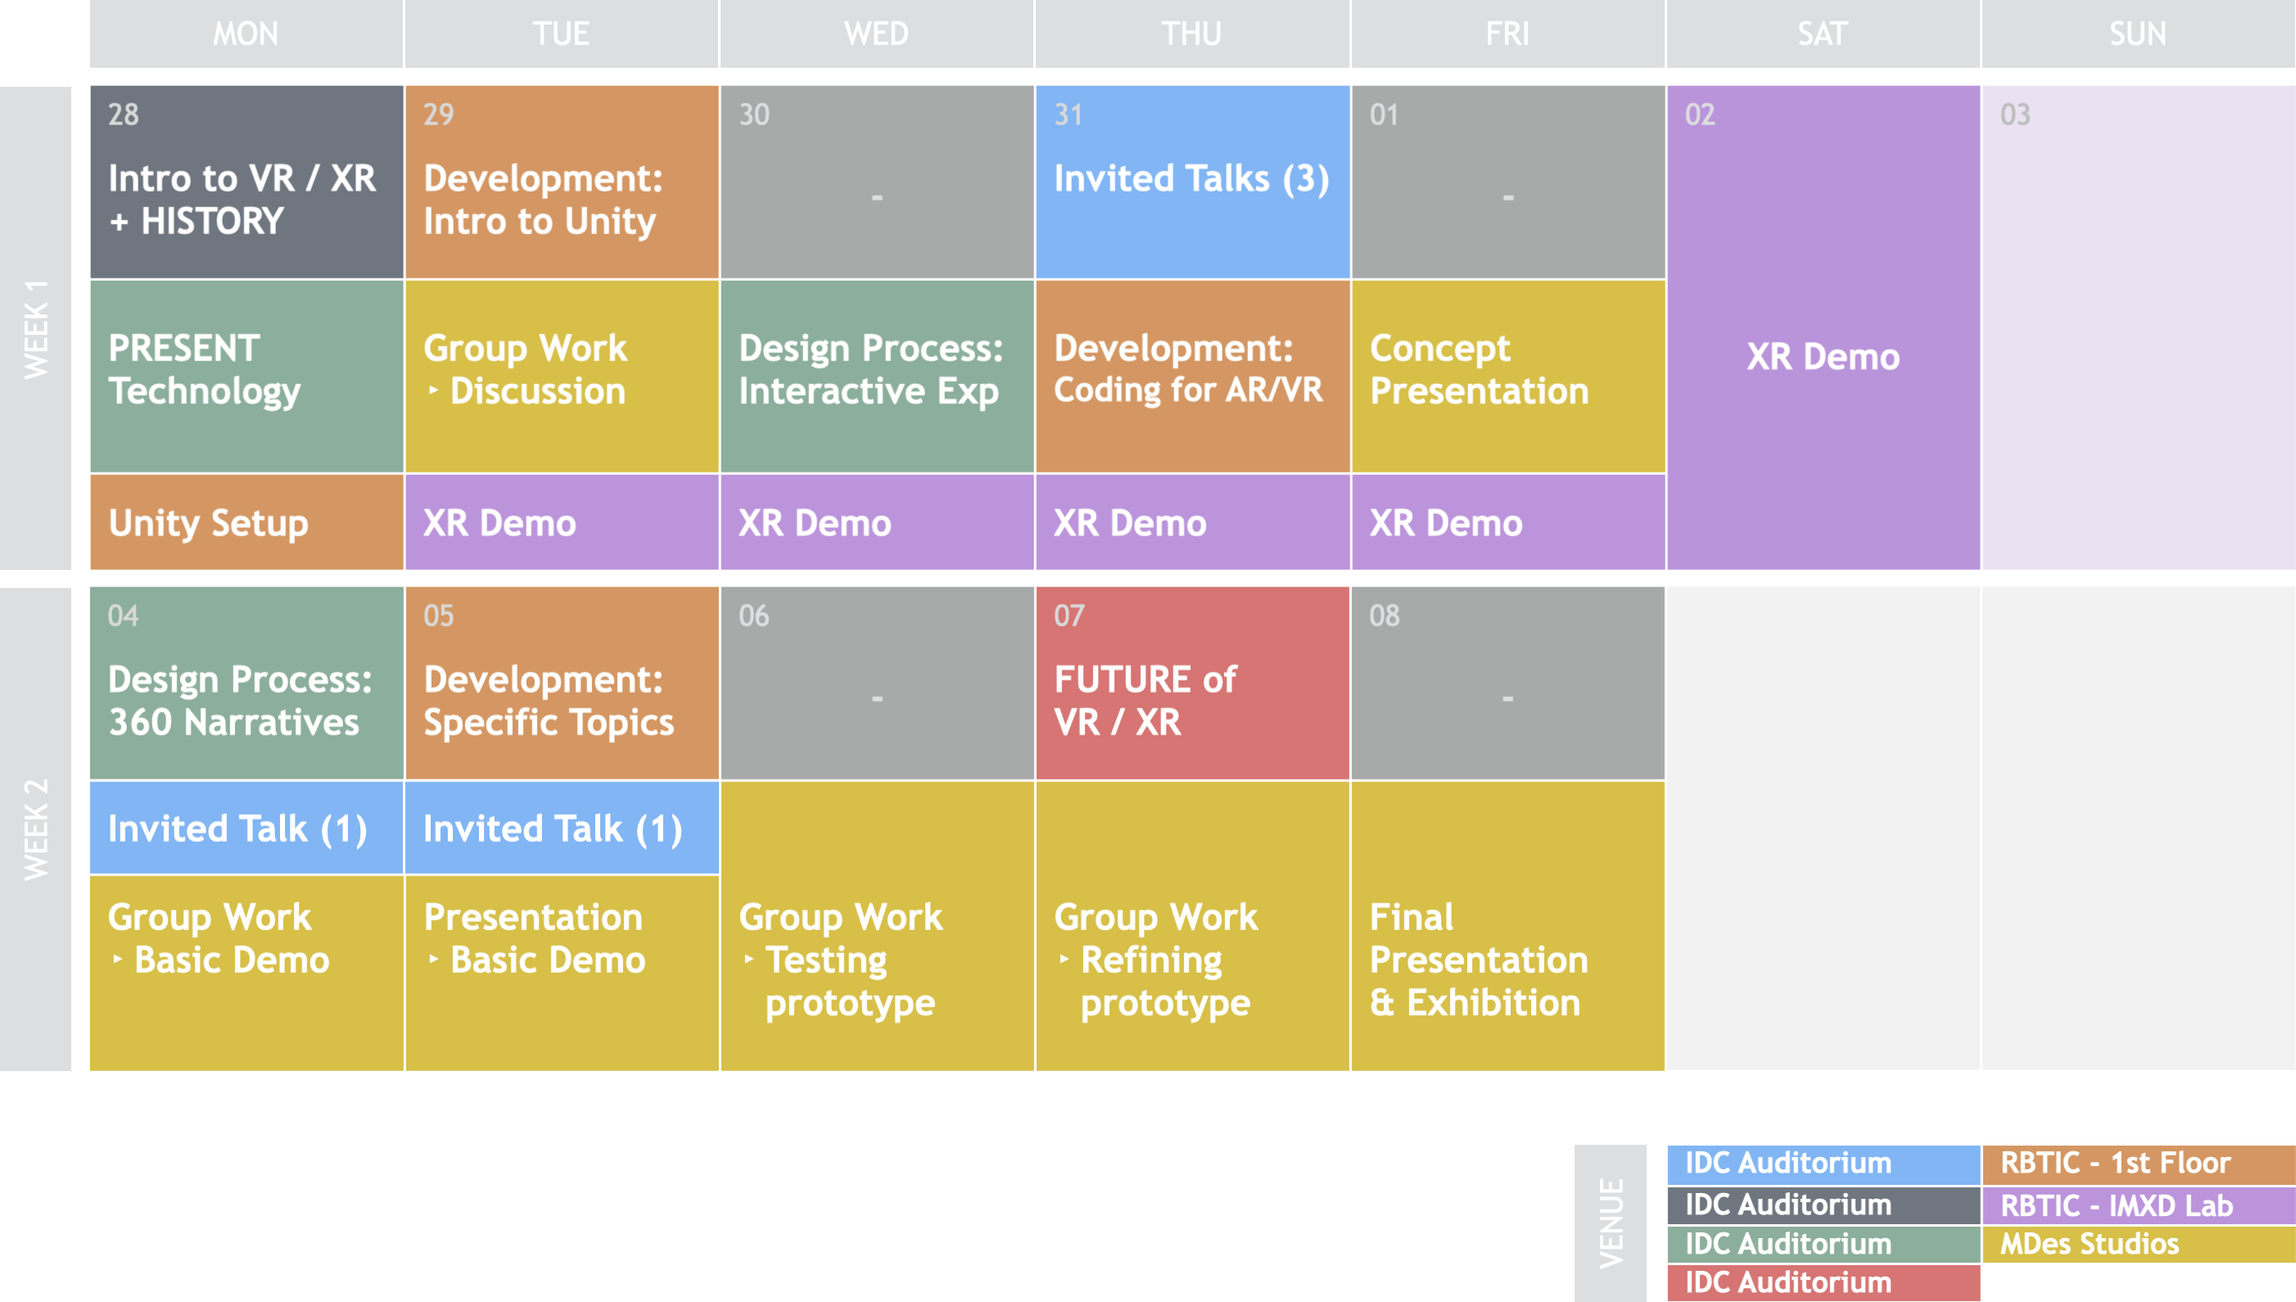
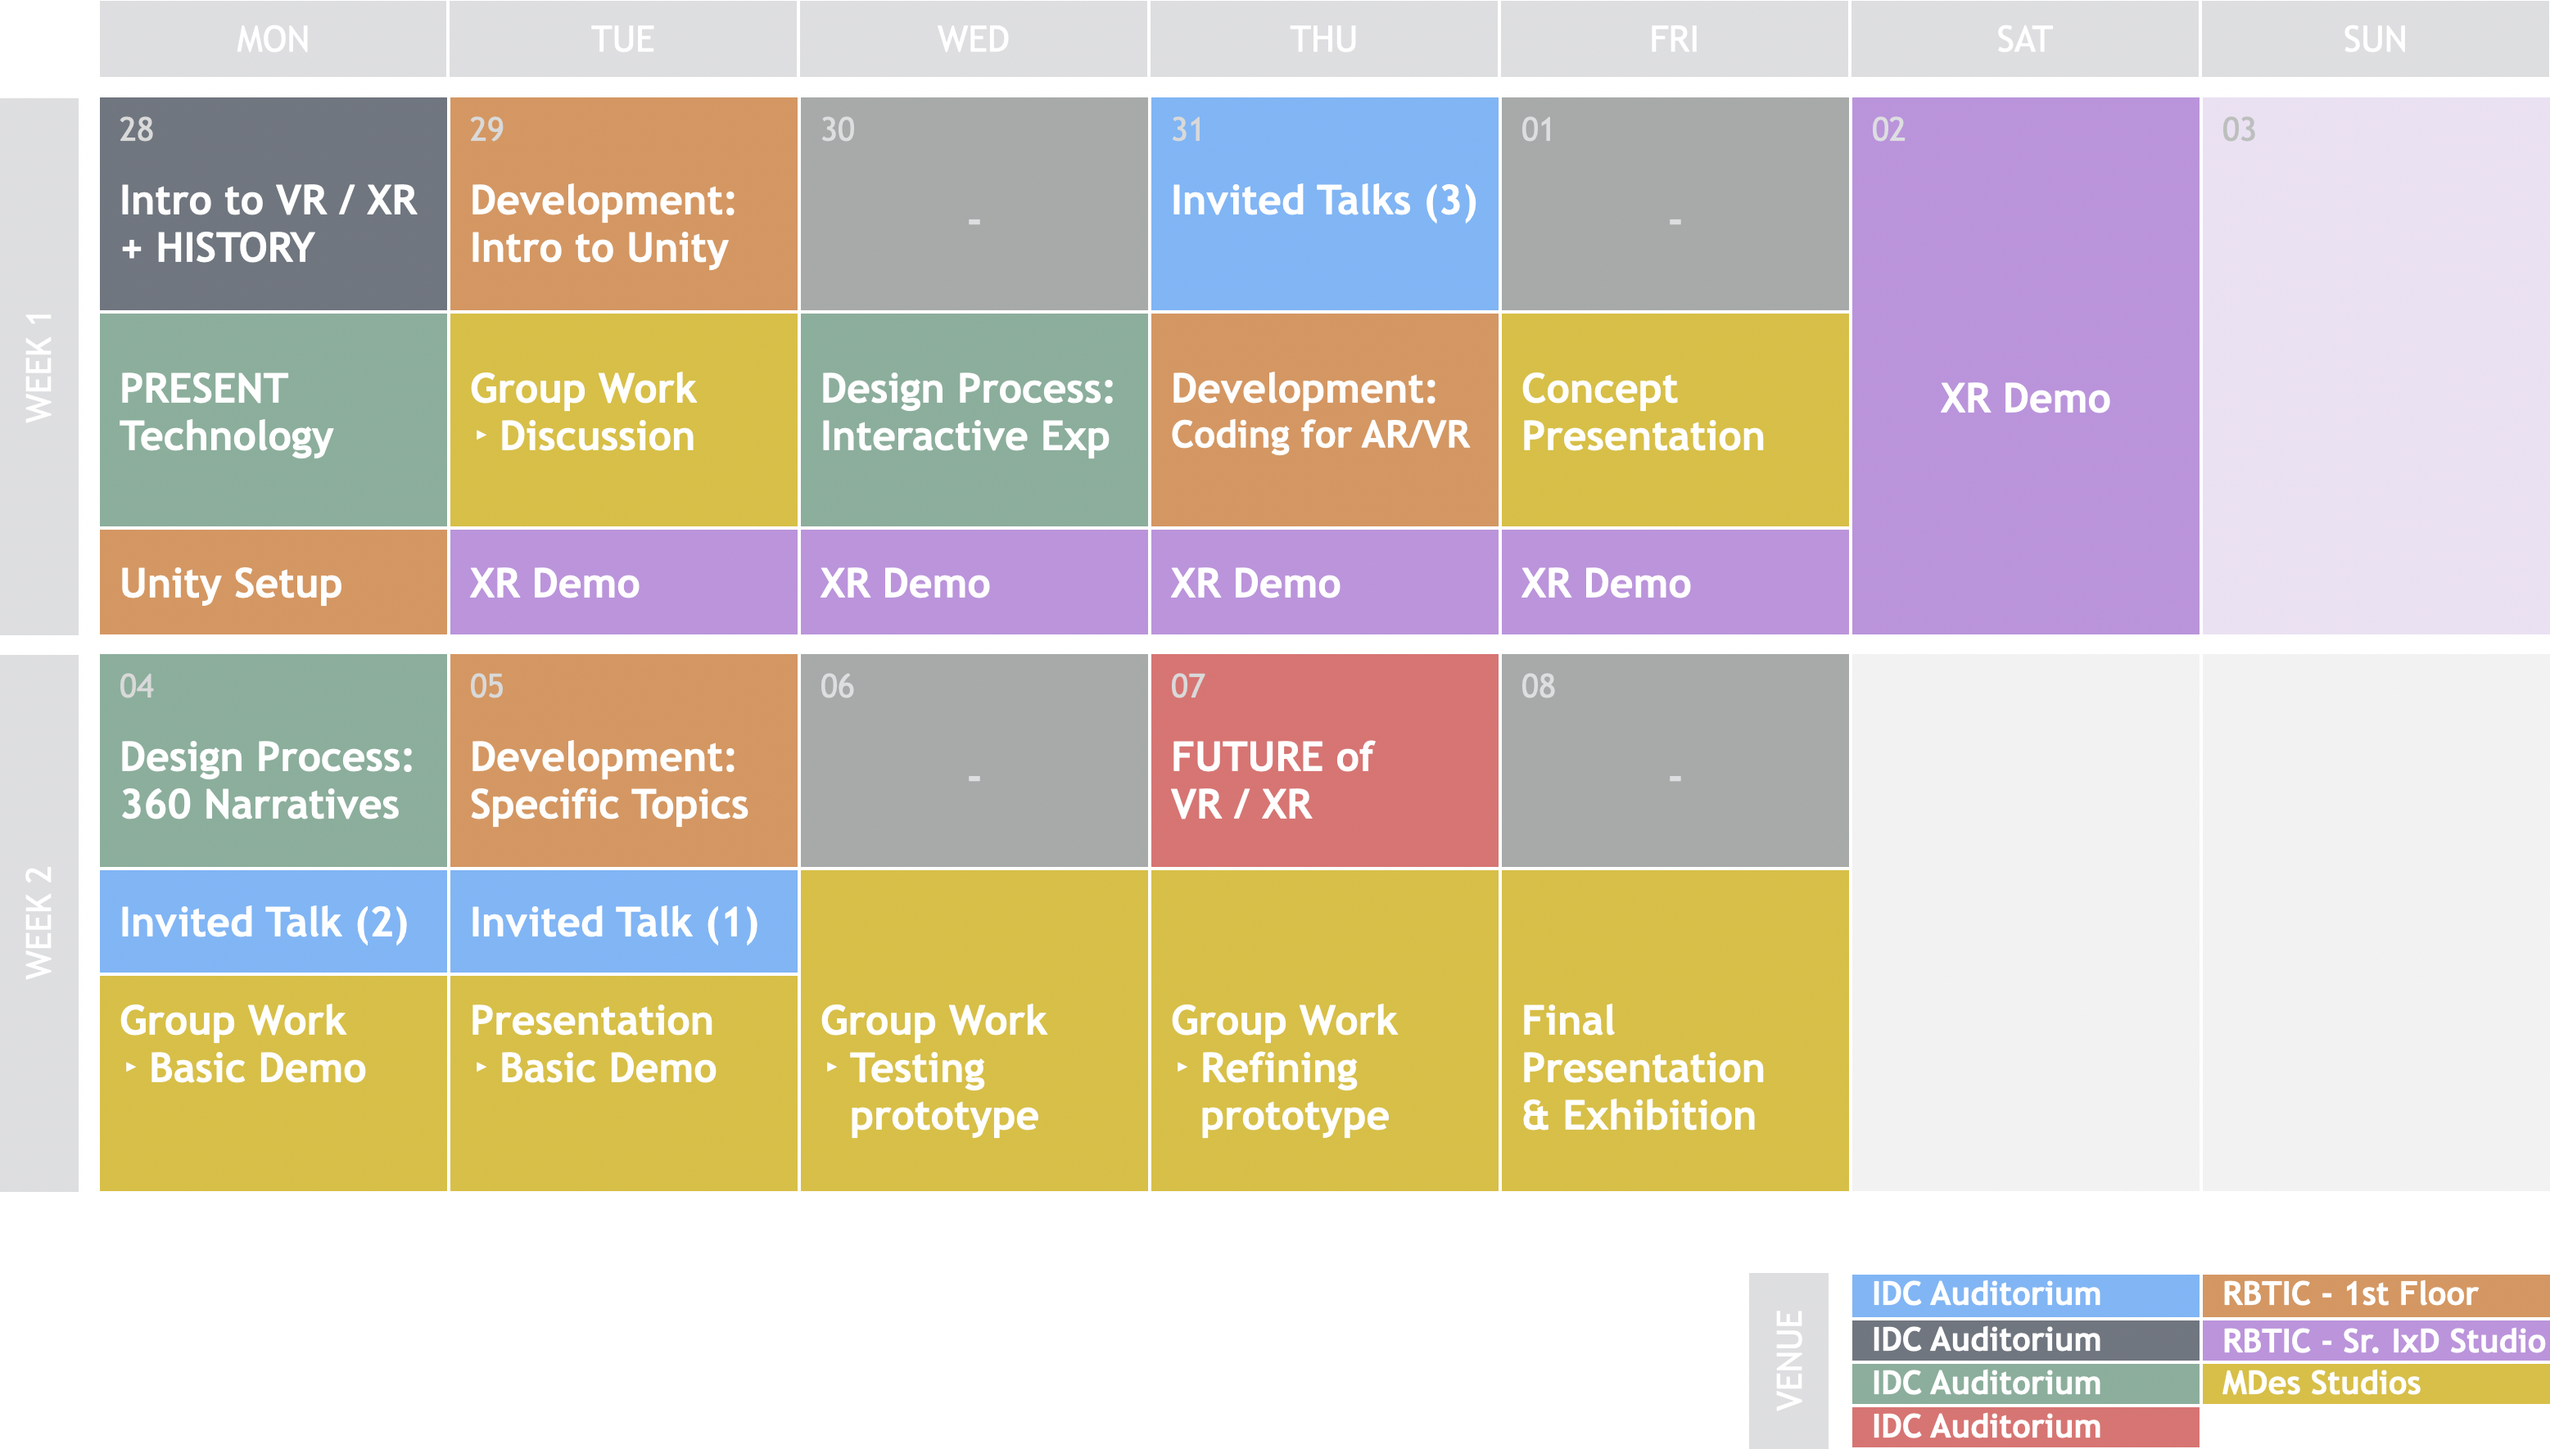
update schedule DE677

diff --git a/_posts/2023-07-07-de677-course-2023.md b/_posts/2023-07-07-de677-course-2023.md
@@ -42,8 +42,9 @@ The invited speakers this time are:
 1. Rohan Jhunja (IDC alumnus, Designer at Inspirit VR) [31 Aug, 10:00AM - 11:00AM]
 2. Neha Mayacharya (Immersive Experience Designer at Cemtrex Labs)  [31 Aug, 11:00AM - 12:00PM]
 3. Harshit Agrawal (Machine Intelligence Designer at Adobe, India)  [31 Aug, 12:00PM - 01:00PM]
-4. Rayaan Sheik (Animation Designer & Creative Artist at Softway) [4 Sep, 11:30AM - 12:30PM]
-5. Rishi Vanukuru (PhD Scholar at ATLAS Institute, University of Colorado Boulder) [5 Sep, 10:00AM - 11:00AM] (Tentative)
+4. Shreyas Vernekar (IDC alumnus, User Experience Designer at Oracle) [4 Sep, 10:30AM — 11:30AM]
+4. Rayaan Sheik (IDC alumnus, Animation Designer & Creative Artist at Softway) [4 Sep, 11:30AM - 12:30PM]
+5. Rishi Vanukuru (IDC alumnus, PhD Scholar at ATLAS Institute, University of Colorado Boulder) [5 Sep, 10:00AM - 11:00AM]
 
 <hr style="height:1px;border-width:0;background-color:lightgrey;">
 <span style="padding: 0px 0px 4px 0px; background-color: #eeeeee; color: #444444; border-radius: 10px;"> <small>&nbsp;&nbsp;06 Jul 2023&nbsp;&nbsp;</small> </span>
